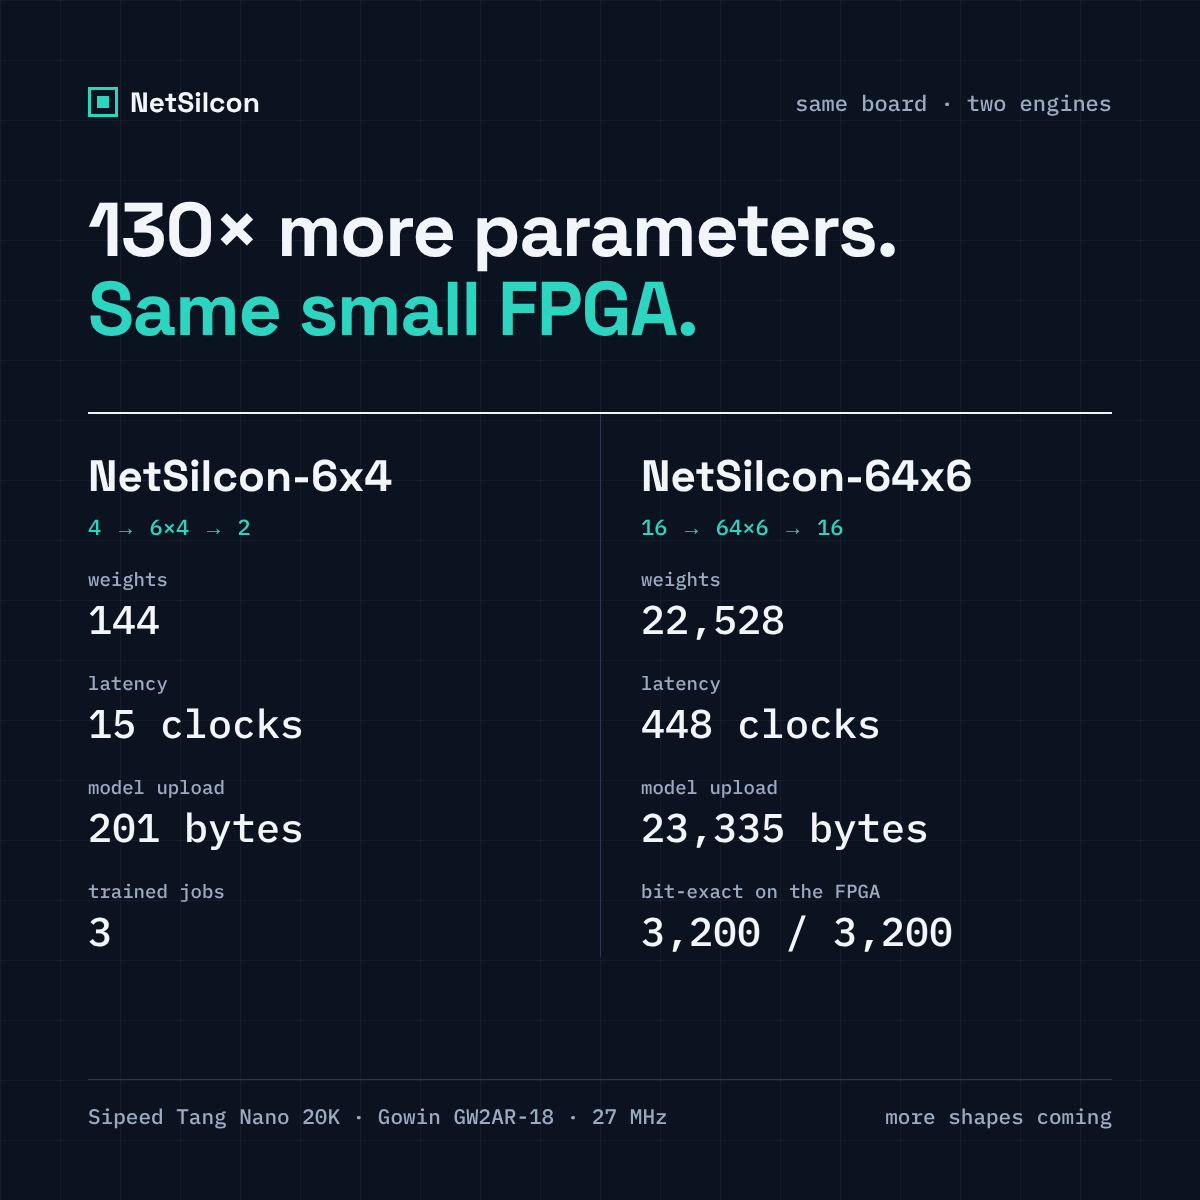
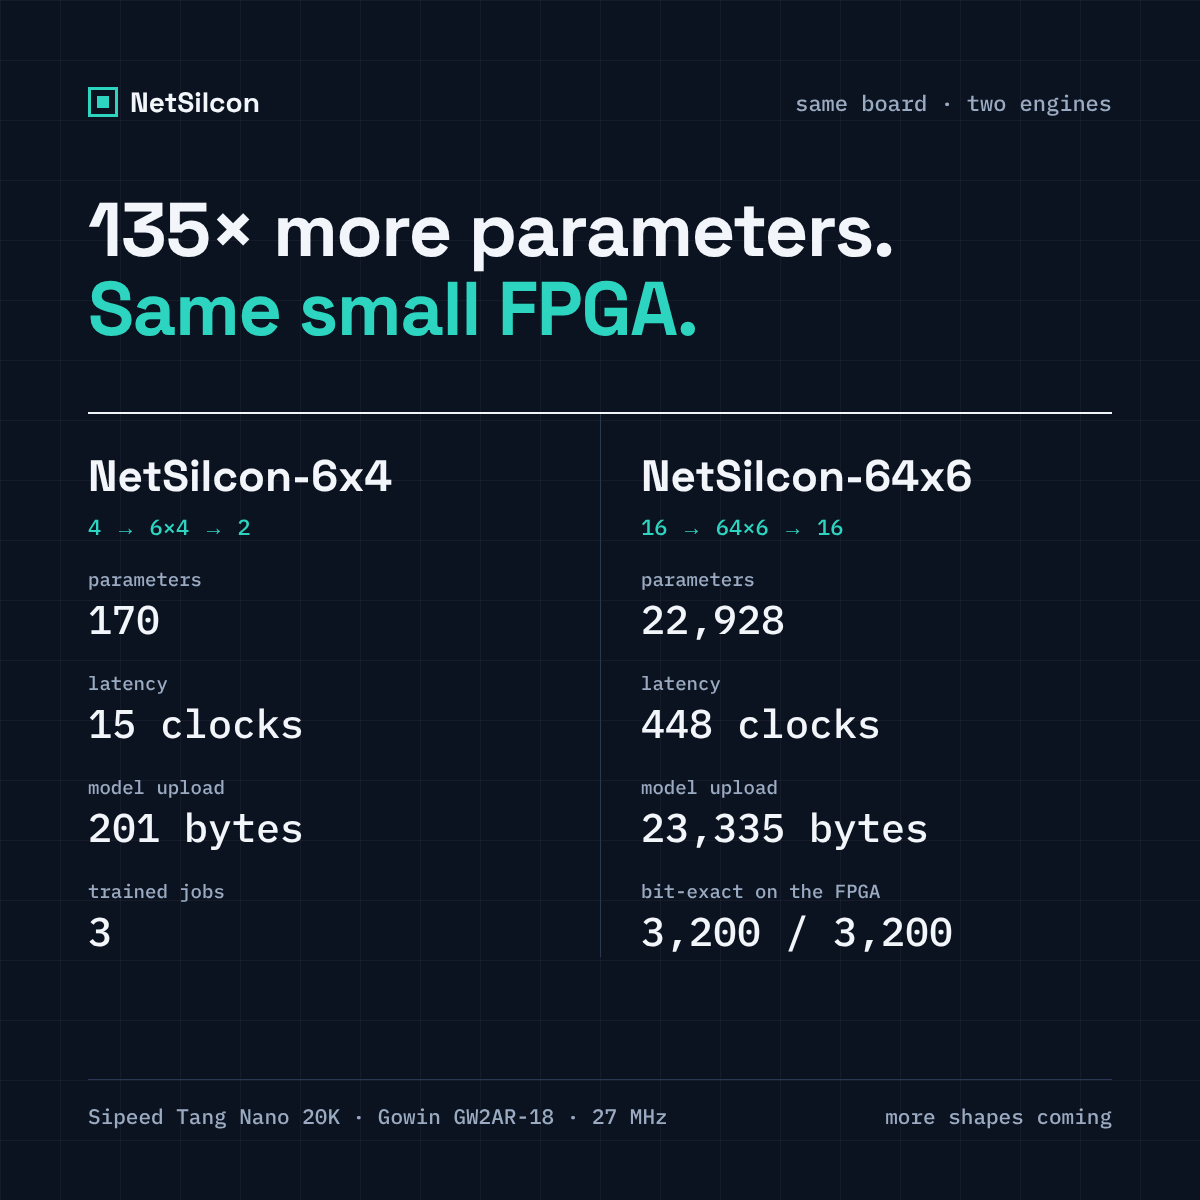
Parameter counts in every model's details; datasheet and image updated
- Model READMEs (6x4: 170 = 144 weights + 26 biases; 64x6: 22,928 =
  22,528 + 400), root README, Agent summary and model index
- 64x6 datasheet: 22,928 parameters in features, layer table, rover model
- media/social/04_two_engines.png: parameters 170 vs 22,928, 135x
- website submodule: parameter totals on the site

Claude | session_01WBBqaX7RLYn1x7e97B9r2r

Changed region(s): [[0.1233, 0.1542, 0.74, 0.2158], [0.0617, 0.4625, 0.1542, 0.5242], [0.5242, 0.4625, 0.6167, 0.5242]]

diff --git a/NetSilcon-Models/NetSilcon-64x6/docs/datasheet_src/NetSilcon-64x6_Datasheet.html b/NetSilcon-Models/NetSilcon-64x6/docs/datasheet_src/NetSilcon-64x6_Datasheet.html
@@ -46,7 +46,7 @@ svg text { font-family: 'Liberation Sans', Arial, sans-serif; }
 <h2><span class="n">1</span>Features</h2>
 <ul>
 <li><b>Hardware neural network:</b> fixed 16 → 64 → 64 → 64 → 64 → 64 → 64 → 16 architecture: 16 inputs, 6 hidden layers of 64 neurons, 16 outputs</li>
-<li><b>Loadable model:</b> 22,528 int8 weights, 400 int16 biases and 7 per-layer shifts in a 23,335-byte model image</li>
+<li><b>Loadable model:</b> 22,928 parameters (22,528 int8 weights and 400 int16 biases) plus 7 per-layer shifts, in a 23,335-byte model image</li>
 <li><b>Predictable latency:</b> 448 clock cycles per inference, every inference (16.6 µs at 27 MHz)</li>
 <li><b>64 MAC lanes:</b> one input broadcast per clock to 64 multiply-accumulate lanes; 50.3 multiply-adds per clock on average</li>
 <li><b>Bit-exact:</b> results match the Python integer reference model bit for bit (3,200 test vectors on hardware)</li>
@@ -73,7 +73,7 @@ svg text { font-family: 'Liberation Sans', Arial, sans-serif; }
 <h2><span class="n">3</span>Description</h2>
 <p>NetSilcon-64x6 runs a 7-layer neural network in dedicated FPGA hardware. The network shape is fixed in the logic. The weights, biases and shifts are uploaded over UART, so the same bitstream does a different job by loading a different 23,335-byte model.</p>
 <p>The host sends 16 input bytes and receives 16 signed outputs, the index of the largest output and the measured latency. There is no instruction fetch, no operating system and no cache: every inference takes exactly 448 clock cycles.</p>
-<p>NetSilcon-64x6 is the larger member of the NetSilcon family. NetSilcon-6x4 (4 → 6×4 → 2, 15 cycles) wires every neuron in parallel; NetSilcon-64x6 instead keeps its weights in block RAM and reuses 64 lanes for every layer, which lets a network with about 130 times more parameters fit in less logic on the same FPGA.</p>
+<p>NetSilcon-64x6 is the larger member of the NetSilcon family. NetSilcon-6x4 (4 → 6×4 → 2, 15 cycles) wires every neuron in parallel; NetSilcon-64x6 instead keeps its weights in block RAM and reuses 64 lanes for every layer, which lets a network with 22,928 parameters, about 135 times the 6x4's 170, fit in less logic on the same FPGA.</p>
 </div>
 </div>
 
@@ -144,7 +144,7 @@ svg text { font-family: 'Liberation Sans', Arial, sans-serif; }
 <p class="cap">Table 6-2. Timing</p>
 <table><thead><tr><th>Parameter</th><th>Condition</th><th>Value</th><th class="b">Basis</th></tr></thead><tbody>
 <tr><td>Inference latency</td><td>engine start to result, hardware counter, every inference</td><td>448 clock cycles = 16.6 µs</td><td class="b">M</td></tr>
-<tr><td>Multiply-adds per inference</td><td></td><td>22,528</td><td class="b">M</td></tr>
+<tr><td>Multiply-adds per inference</td><td>one per weight</td><td>22,528</td><td class="b">M</td></tr>
 <tr><td>Multiply-adds per clock</td><td>average over one inference</td><td>50.3</td><td class="b">M</td></tr>
 <tr><td>Inference transaction, UART</td><td>17 bytes in, 20 bytes out at 115 200 baud</td><td>3.2 ms on the wire</td><td class="b">E</td></tr>
 <tr><td>Inference round trip, PC</td><td>Windows 11, USB-C bridge, pyserial</td><td>16.9 ms average, 17.3 ms maximum</td><td class="b">M</td></tr>
@@ -180,6 +180,7 @@ svg text { font-family: 'Liberation Sans', Arial, sans-serif; }
 <tr><td>2 – 6</td><td class="r">64</td><td class="r">64</td><td class="r">4,096 each</td><td class="r">64 each</td><td>ReLU</td><td>0 … 127</td></tr>
 <tr><td>7 (output)</td><td class="r">64</td><td class="r">16</td><td class="r">1,024</td><td class="r">16</td><td>none</td><td>−128 … 127</td></tr>
 <tr><td><b>Total</b></td><td></td><td class="r">400</td><td class="r"><b>22,528</b></td><td class="r"><b>400</b></td><td></td><td></td></tr></tbody></table>
+<p>Total: <b>22,928 parameters</b> (weights + biases), plus 7 layer shifts. Every model for NetSilcon-64x6 has exactly this size.</p>
 
 <h3>7.3 Lane datapath</h3>
 <p>Lane <i>j</i> is neuron <i>j</i> of every layer. Each clock, one input value <i>x<sub>i</sub></i> is broadcast to all 64 lanes, and each lane adds <i>x<sub>i</sub> · w<sub>j,i</sub></i>, its own weight, to its 24-bit accumulator. For a layer with <i>N</i><sub>in</sub> inputs:</p>
@@ -326,7 +327,7 @@ y   = clamp(v, −128, 127)        output layer</div>
 <tr><td>y2 … y15</td><td>Unused, exactly 0</td></tr></tbody></table>
 <p class="cap">Table 12-2. Rover model results</p>
 <table><thead><tr><th>Test</th><th>Result</th><th class="b">Basis</th></tr></thead><tbody>
-<tr><td>Model file</td><td><code>models/rover/rover.json</code>, CRC-32 3A81C867, shifts 7 7 6 6 5 6 4</td><td class="b">M</td></tr>
+<tr><td>Model file</td><td><code>models/rover/rover.json</code>: 22,928 parameters, CRC-32 3A81C867, shifts 7 7 6 6 5 6 4</td><td class="b">M</td></tr>
 <tr><td>Agreement with the teacher rules, held-out scans</td><td>float 92.7 %, int8 89.8 %</td><td class="b">M</td></tr>
 <tr><td>Simulation, 80 drives in 4 standard worlds, supervisor and safety stop on</td><td>0 crashes, 0 stuck, 46.9 m per drive</td><td class="b">M</td></tr>
 <tr><td>Simulation, 40 unseen random worlds</td><td>0 crashes, 1 stuck, 37.9 m per drive (NetSilcon-6x4 rover: 33.3 m)</td><td class="b">M</td></tr>

diff --git a/media/social/cards_source.html b/media/social/cards_source.html
@@ -122,12 +122,12 @@ svg.arrows{position:absolute;inset:0}
 <!-- 4: family -->
 <section class="card" id="c4"><div class="grid"></div>
   <div class="top"><span class="brand"><i></i>NetSilcon</span><span>same board · two engines</span></div>
-  <h1>130× more parameters.<br><em>Same small FPGA.</em></h1>
+  <h1>135× more parameters.<br><em>Same small FPGA.</em></h1>
   <div class="vs">
     <div><h3>NetSilcon-6x4</h3><div class="sh">4 → 6×4 → 2</div>
-      <dl><dt>weights</dt><dd>144</dd><dt>latency</dt><dd>15 clocks</dd><dt>model upload</dt><dd>201 bytes</dd><dt>trained jobs</dt><dd>3</dd></dl></div>
+      <dl><dt>parameters</dt><dd>170</dd><dt>latency</dt><dd>15 clocks</dd><dt>model upload</dt><dd>201 bytes</dd><dt>trained jobs</dt><dd>3</dd></dl></div>
     <div><h3>NetSilcon-64x6</h3><div class="sh">16 → 64×6 → 16</div>
-      <dl><dt>weights</dt><dd>22,528</dd><dt>latency</dt><dd>448 clocks</dd><dt>model upload</dt><dd>23,335 bytes</dd><dt>bit-exact on the FPGA</dt><dd>3,200 / 3,200</dd></dl></div>
+      <dl><dt>parameters</dt><dd>22,928</dd><dt>latency</dt><dd>448 clocks</dd><dt>model upload</dt><dd>23,335 bytes</dd><dt>bit-exact on the FPGA</dt><dd>3,200 / 3,200</dd></dl></div>
   </div>
   <div class="foot"><span>Sipeed Tang Nano 20K · Gowin GW2AR-18 · 27 MHz</span><span>more shapes coming</span></div>
 </section>

diff --git a/Agent/MODEL_INDEX.md b/Agent/MODEL_INDEX.md
@@ -1,8 +1,8 @@
 # Model index
 
-Every trained model in this repository. Regenerate the facts with `python tools/sync_website.py`.
+Every trained model in this repository. Parameters = weights + biases (the layer shifts are counted separately); every model of a shape has the same count. Regenerate the facts with `python tools/sync_website.py`.
 
-## NetSilcon-6x4 (4 inputs, 2 outputs, 201-byte image, CRC-16)
+## NetSilcon-6x4 (4 inputs, 2 outputs, 170 parameters, 201-byte image, CRC-16)
 
 | Application | File | CRC-16 | Golden vectors | Result |
 |---|---|---|---|---|
@@ -11,7 +11,7 @@ Every trained model in this repository. Regenerate the facts with `python tools/
 | Rover driver v2 (4 LiDAR corner sectors) | `models/rover/rover.json` | 295B | 576 | 91.5 % action agreement; HIL 9,600 decisions, 0 mismatches |
 | Rover driver v1 | `models/rover/rover_v1.json` | F5C2 | 576 | 95.5 % agreement; drives worse in closed loop than v2 |
 
-## NetSilcon-64x6 (16 inputs, 16 outputs, 23,335-byte image, CRC-32)
+## NetSilcon-64x6 (16 inputs, 16 outputs, 22,928 parameters, 23,335-byte image, CRC-32)
 
 | Application | File | CRC-32 | Golden vectors | Result |
 |---|---|---|---|---|

diff --git a/README.md b/README.md
@@ -27,7 +27,7 @@ Videos: [demo](media/NetSilcon_Demo.mp4) · [keynote](media/NetSilcon_Keynote.mp
 | | [NetSilcon-6x4](NetSilcon-Models/NetSilcon-6x4/) | [NetSilcon-64x6](NetSilcon-Models/NetSilcon-64x6/) |
 |---|---|---|
 | Network | 4 → 6 → 6 → 6 → 6 → 2 | 16 → 64 → 64 → 64 → 64 → 64 → 64 → 16 |
-| Parameters | 144 weights, 26 biases, 5 shifts | 22,528 weights, 400 biases, 7 shifts |
+| Parameters (total) | **170**: 144 weights + 26 biases (+ 5 shifts) | **22,928**: 22,528 weights + 400 biases (+ 7 shifts) |
 | Model size (upload) | 201 bytes, CRC-16 | 23,335 bytes, CRC-32 |
 | Where the weights live | registers | 32 block RAMs, two banks |
 | Compute | 72 multipliers, all neurons in parallel | 64 MAC lanes, one input per clock |

diff --git a/Agent/PROJECT_SUMMARY.md b/Agent/PROJECT_SUMMARY.md
@@ -57,7 +57,7 @@ Regression (rover): value = y / 127 in -1..+1.
 | | NetSilcon-6x4 | NetSilcon-64x6 |
 |---|---|---|
 | Shape | 4 -> 6 -> 6 -> 6 -> 6 -> 2 | 16 -> 64 -> 64 -> 64 -> 64 -> 64 -> 64 -> 16 |
-| Parameters | 144 w (int8), 26 b (int16), 5 shifts (0..15) | 22,528 w, 400 b, 7 shifts (0..23) |
+| Parameters | 170 = 144 w (int8) + 26 b (int16); 5 shifts (0..15) | 22,928 = 22,528 w + 400 b; 7 shifts (0..23) |
 | Accumulator | 20-bit | 24-bit |
 | Weights in | registers | 32 BSRAM SDPB 1K x 16, two banks (0 built-in, 1 upload) |
 | Compute | 72 multipliers, 2 phases | 64 MAC lanes, 1 input broadcast per clock, 1 shared requantizer |

diff --git a/NetSilcon-Models/NetSilcon-64x6/README.md b/NetSilcon-Models/NetSilcon-64x6/README.md
@@ -6,7 +6,7 @@
 
 A larger NetSilcon engine for the Sipeed Tang Nano 20K (GW2AR-18):
 **16 → 64 → 64 → 64 → 64 → 64 → 64 → 16**, int8. The shape is fixed in hardware.
-The weights (22,528), biases (400) and per-layer shifts (7) live in block RAM and
+The weights (22,528), biases (400), together **22,928 parameters**, and per-layer shifts (7) live in block RAM and
 are loadable over UART with a CRC-32 (23,335-byte model), verified on hardware.
 
 Same neuron math as [NetSilcon-6x4](../NetSilcon-6x4/):

diff --git a/NetSilcon-Models/NetSilcon-64x6/models/rover/README.md b/NetSilcon-Models/NetSilcon-64x6/models/rover/README.md
@@ -10,6 +10,7 @@ one sees 16 sectors all the way round.
 |---|---|
 | File | `rover.json` (upload over UART; no FPGA rebuild) |
 | Shape | 16 → 64 → 64 → 64 → 64 → 64 → 64 → 16, int8 weights, int16 biases |
+| Parameters | **22,928** (22,528 int8 weights + 400 int16 biases) + 7 layer shifts |
 | Shifts | 7 7 6 6 5 6 4 |
 | CRC-32 of the 23,335-byte image | **3A81C867** |
 | Golden test vectors | 1000 (5 edge cases + 995 held-out scans) |

diff --git a/NetSilcon-Models/NetSilcon-6x4/models/rover/README.md b/NetSilcon-Models/NetSilcon-6x4/models/rover/README.md
@@ -8,6 +8,7 @@ Drives the 2D rover simulator in `python/rover_sim/`, also in hardware-in-the-lo
 |---|---|
 | Files | `rover.json`, `rover_v1.json` |
 | Kind | regression |
+| Parameters | **170** (144 int8 weights + 26 int16 biases) + 5 layer shifts; network 4 → 6 → 6 → 6 → 6 → 2 |
 | int8 accuracy (vs training rules) | 91.5 % |
 | Shifts | 8 6 6 5 4 |
 | CRC-16 of the 201-byte image | 295B |

diff --git a/NetSilcon-Models/NetSilcon-6x4/models/irrigation/README.md b/NetSilcon-Models/NetSilcon-6x4/models/irrigation/README.md
@@ -8,6 +8,7 @@ Uploaded at run time; verified on hardware: 576 / 576 golden vectors bit-exact, 
 |---|---|
 | Files | `irrigation.json` |
 | Kind | classifier |
+| Parameters | **170** (144 int8 weights + 26 int16 biases) + 5 layer shifts; network 4 → 6 → 6 → 6 → 6 → 2 |
 | int8 accuracy (vs training rules) | 97.4 % |
 | Shifts | 7 6 7 7 5 |
 | CRC-16 of the 201-byte image | 8F33 |

diff --git a/NetSilcon-Models/NetSilcon-6x4/models/motor_fault/README.md b/NetSilcon-Models/NetSilcon-6x4/models/motor_fault/README.md
@@ -8,6 +8,7 @@ Built into the NetSilcon-6x4 bitstream (the model that runs after power-up).
 |---|---|
 | Files | `motor_fault.json` |
 | Kind | classifier |
+| Parameters | **170** (144 int8 weights + 26 int16 biases) + 5 layer shifts; network 4 → 6 → 6 → 6 → 6 → 2 |
 | int8 accuracy (vs training rules) | 94.5 % |
 | Shifts | 8 5 6 6 6 |
 | CRC-16 of the 201-byte image | 5496 |

diff --git a/NetSilcon-Models/NetSilcon-64x6/models/synthetic/README.md b/NetSilcon-Models/NetSilcon-64x6/models/synthetic/README.md
@@ -7,6 +7,7 @@ Random int8 weights with biases and shifts calibrated so most activations fall b
 | Item | Value |
 |---|---|
 | File | `synthetic.json` |
+| Parameters | **22,928** (22,528 int8 weights + 400 int16 biases) + 7 layer shifts |
 | Shifts | 7 9 8 8 8 8 7 |
 | CRC-32 of the 23,335-byte image | 6F4225BF |
 | Golden test vectors | 1000 |

diff --git a/NetSilcon-Models/NetSilcon-64x6/models/stress/README.md b/NetSilcon-Models/NetSilcon-64x6/models/stress/README.md
@@ -7,6 +7,7 @@ Weights only −128 / +127, biases at the int16 limits, shifts 0..17, layer-2 su
 | Item | Value |
 |---|---|
 | File | `stress.json` |
+| Parameters | **22,928** (22,528 int8 weights + 400 int16 biases) + 7 layer shifts |
 | Shifts | 0 15 13 1 17 9 7 |
 | CRC-32 of the 23,335-byte image | 732C18C9 |
 | Golden test vectors | 200 |
